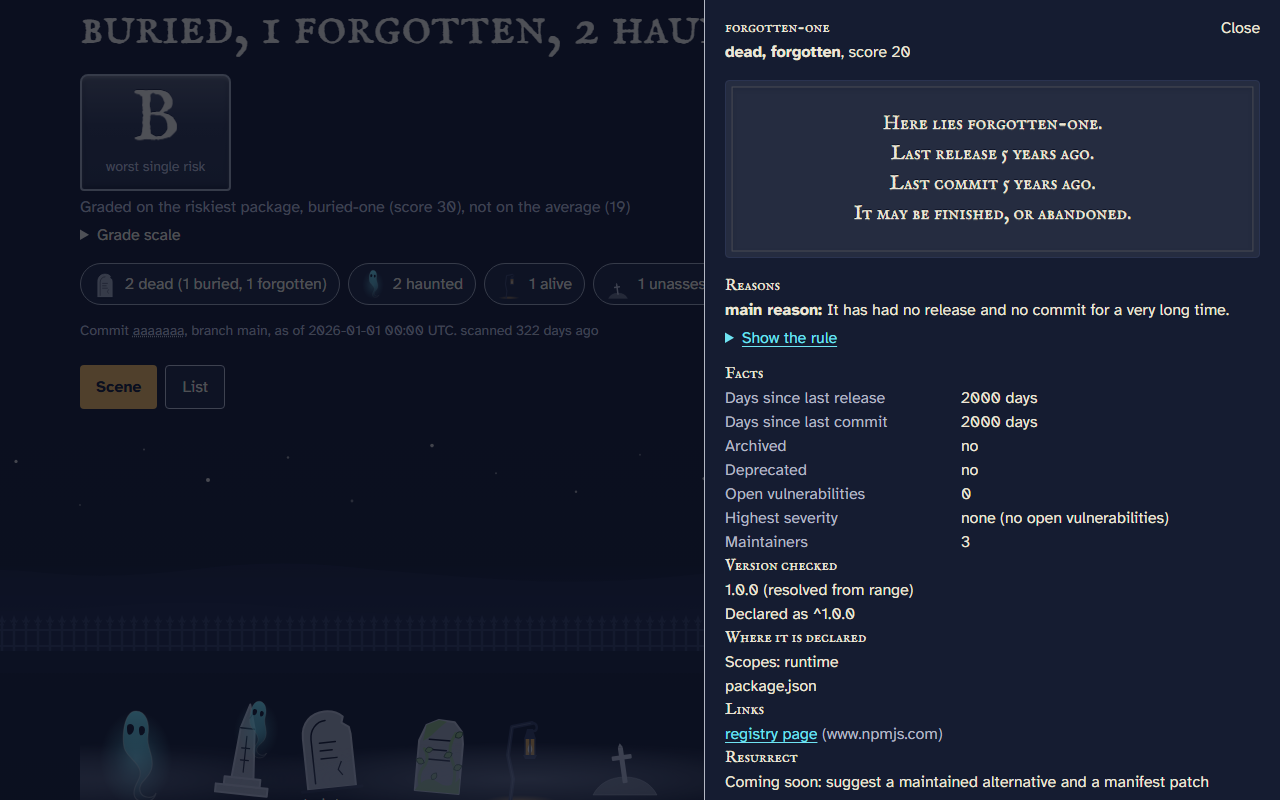
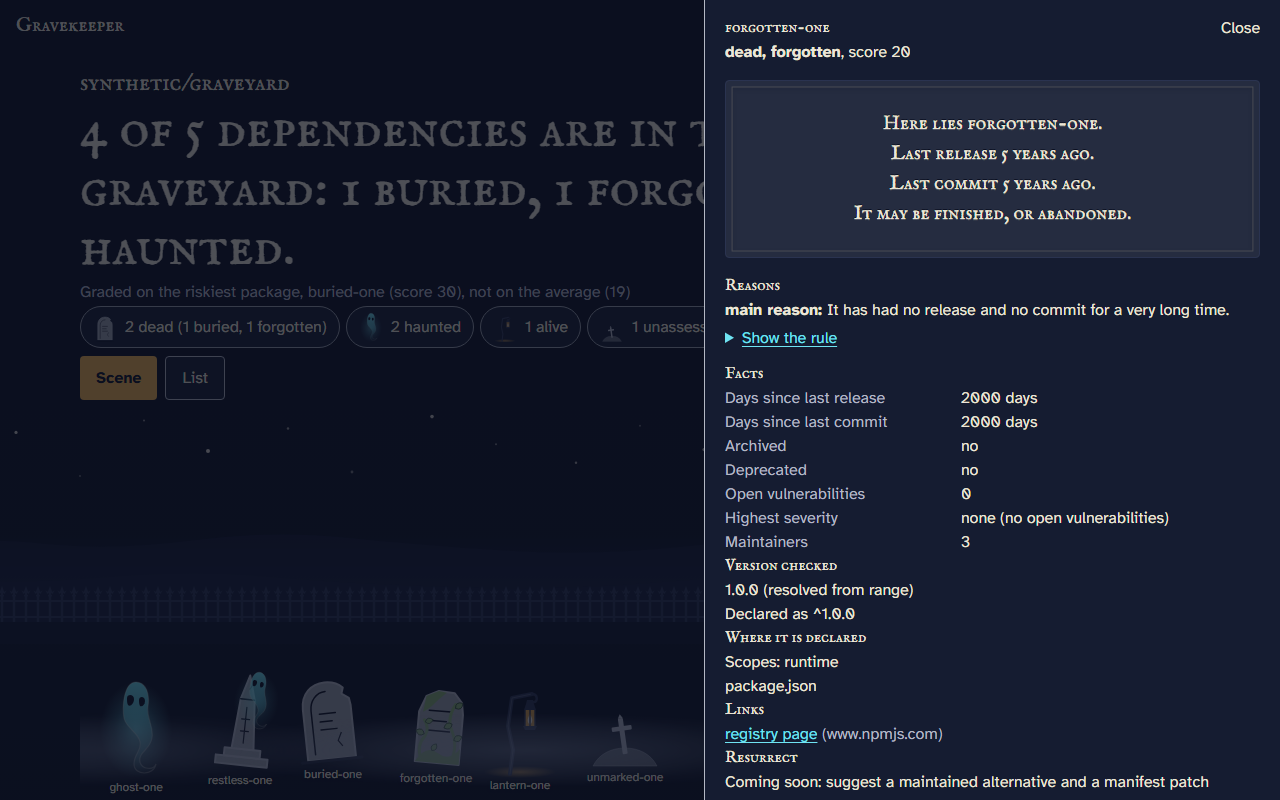
graveyard-art: regenerate screenshots after the compact header (22.5)

diff --git a/.kiro/specs/graveyard-art/tasks.md b/.kiro/specs/graveyard-art/tasks.md
@@ -364,7 +364,7 @@ Implementation language: TypeScript (strict), the project root is the `gravekeep
     - Create `tests/e2e/above-fold.spec.ts` with the request fixture and a mocked `/api/scan`: at 1440x900 and 1280x800 (desktop) and at 390x844 (mobile), the top of the art box of the first `.gk-plot` is smaller than the viewport height. Run the existing header unit tests (`tests/ui/components/results-header.test.tsx`) and `tests/ui/art-css.test.ts`. Edit `tests/ui/art-css.test.ts` only to add the mobile clamp lower bound (26 px under 640 px); keep the 32 and 56 px desktop check unchanged.
     - Files: `tests/e2e/above-fold.spec.ts`, `tests/ui/art-css.test.ts` (only if a mobile clamp bound is added)
     - _Requirements: 5.10, 5.11, 5.12, 5.14_
-  - [~] 22.5 Regenerate the screenshots again after the compact header
+  - [x] 22.5 Regenerate the screenshots again after the compact header
     - Regenerate the same 50-file set as task 22.2 plus any other image that changes because of the compact header, with the same rules: the images are SHA-identical across two runs, `docs/screenshots/m1/` and `m2/` do not change, and each image is viewed with any clipped or overlapping text reported.
     - Files: `docs/screenshots/*.png`
     - _Requirements: 5.10, 5.11, 14.9_
